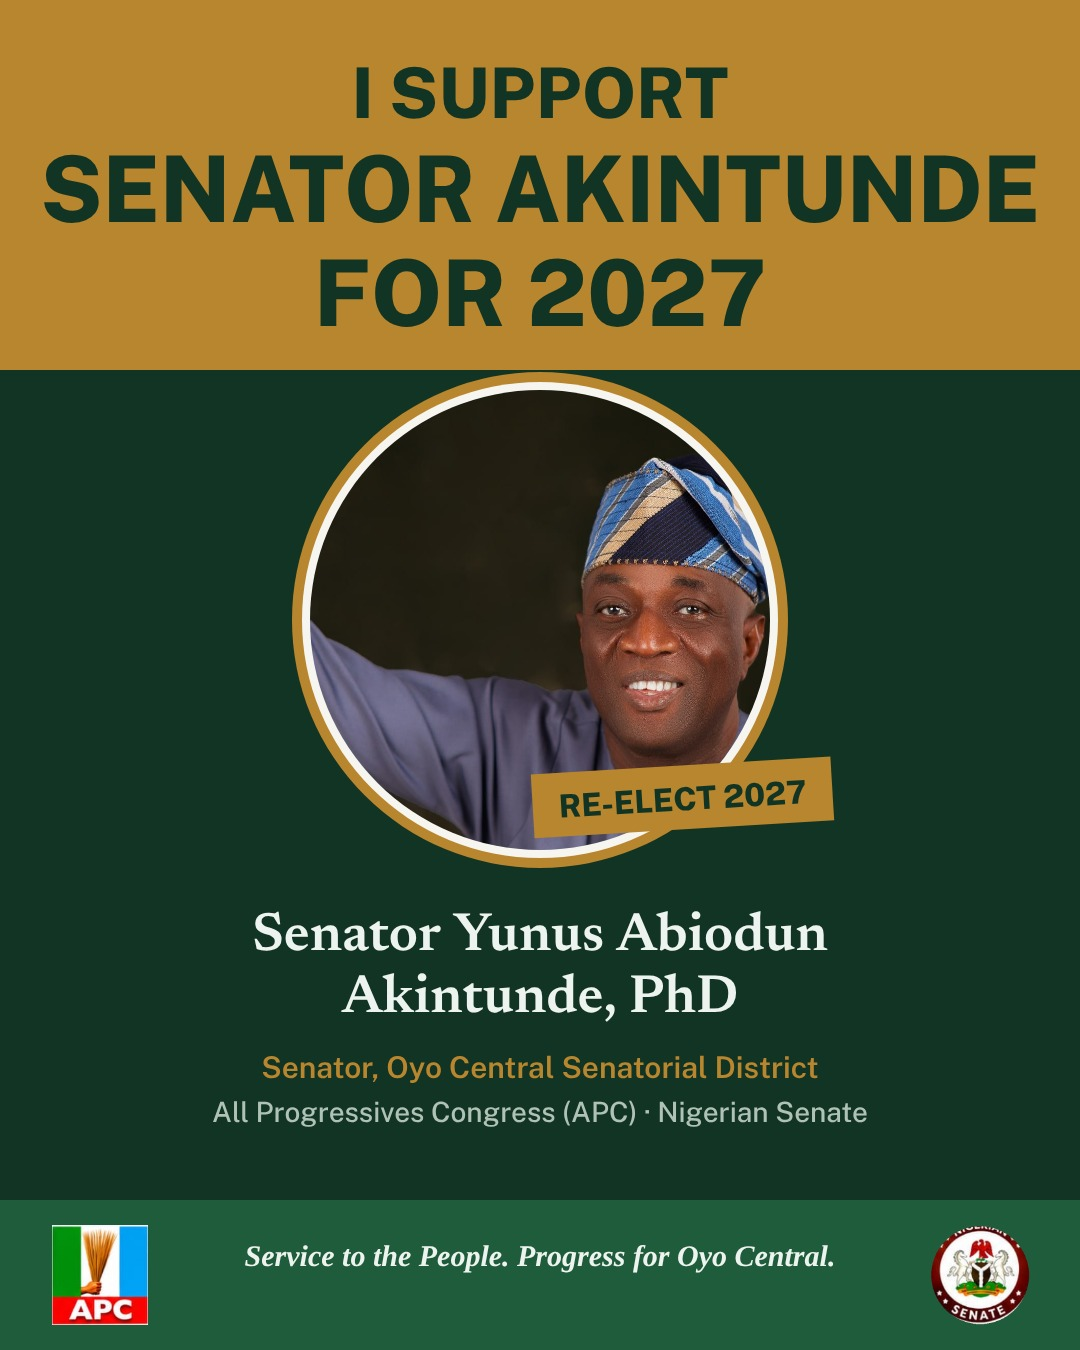
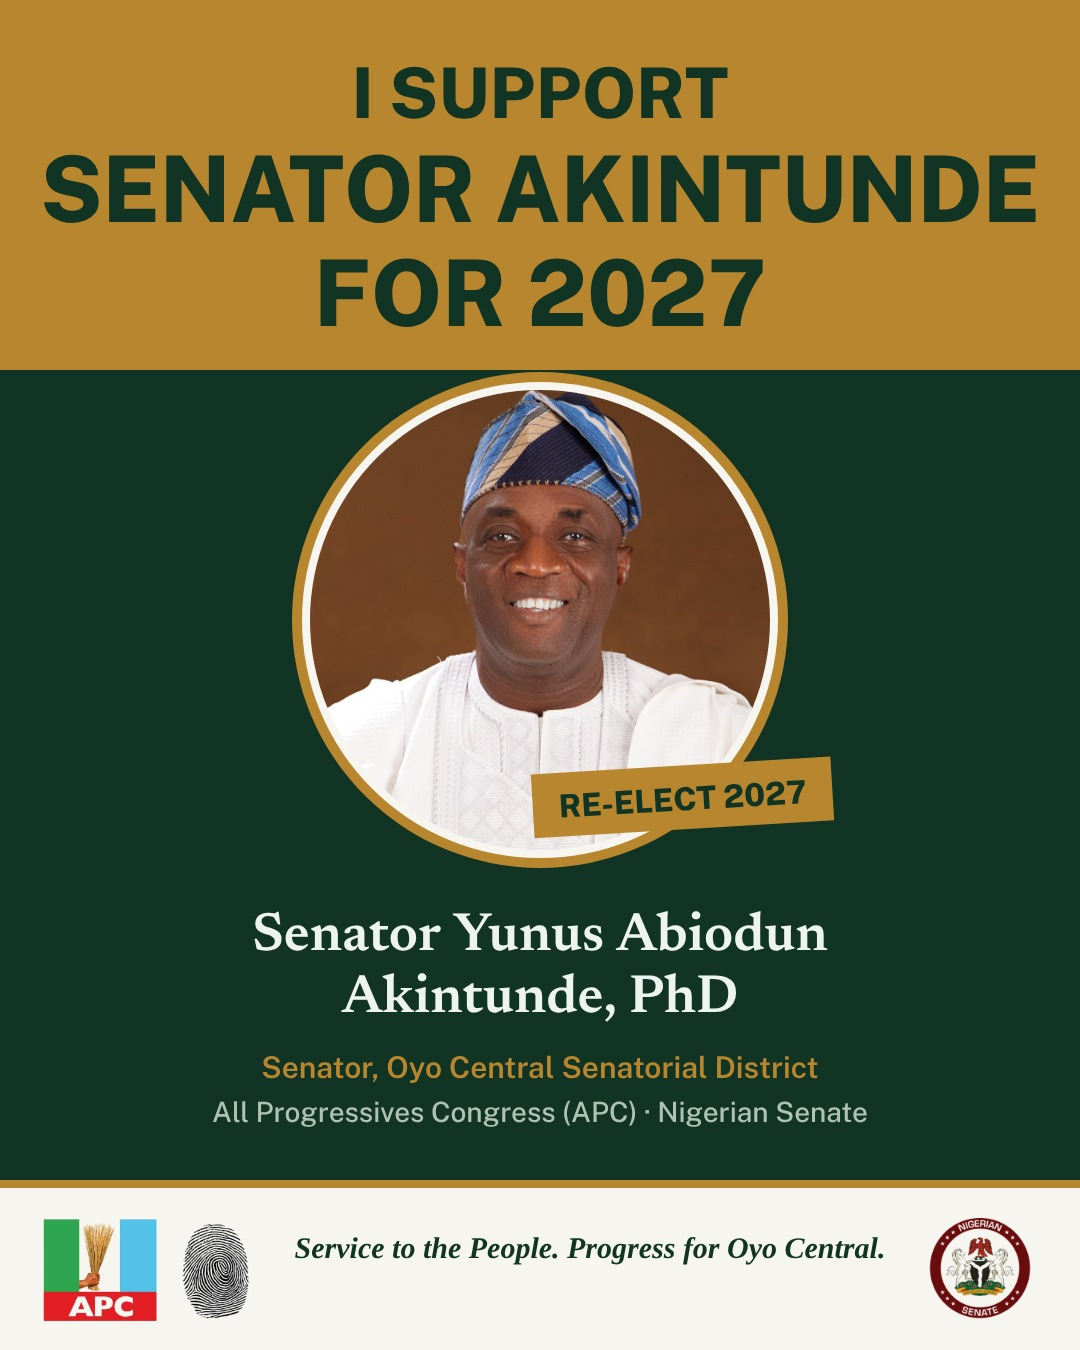
Add files via upload

Changed region(s): [[0.0, 0.8711, 1.0, 1.0], [0.275, 0.28, 0.7333, 0.6533]]

diff --git a/src/lib/support-card.ts b/src/lib/support-card.ts
@@ -8,8 +8,8 @@ export const CARD_W = 1080;
 export const CARD_H = 1350;
 
 /** Bundled copies so the card always has its logos, even if a CMS image fails to load. */
-const FALLBACK_APC = "/brand/apc-logo.png";
-const FALLBACK_SEAL = "/brand/senate-seal.png";
+const FALLBACK_APC = "/brand/apc-thumbprint.png";
+const FALLBACK_SEAL = "/brand/senate-logo.png";
 
 const C = {
   deep: "#123424",
@@ -23,8 +23,6 @@ const C = {
 
 export type CardInput = {
   photoUrl: string;
-  /** 0 = keep the left edge, 0.5 = centre, 1 = right edge (where the face is in a wide photo). */
-  photoFocusX?: number;
   apcLogoUrl: string;
   sealUrl: string;
   siteHost: string;
@@ -73,10 +71,11 @@ function drawCircleImage(
   cx: number,
   cy: number,
   r: number,
-  focusX = 0.5,
 ) {
+  // Portrait framing: fill the circle, zoom in a little, centre horizontally and keep
+  // the head in the upper part, so a head-and-shoulders photo reads well at phone size.
   const size = r * 2;
-  const scale = Math.max(size / img.width, size / img.height);
+  const scale = Math.max(size / img.width, size / img.height) * 1.18;
   const w = img.width * scale;
   const h = img.height * scale;
   ctx.save();
@@ -84,7 +83,7 @@ function drawCircleImage(
   ctx.arc(cx, cy, r, 0, Math.PI * 2);
   ctx.closePath();
   ctx.clip();
-  ctx.drawImage(img, cx - r - (w - size) * focusX, cy - r - (h - size) * 0.12, w, h);
+  ctx.drawImage(img, cx - w / 2, cy - r - (h - size) * 0.05, w, h);
   ctx.restore();
 }
 
@@ -93,12 +92,13 @@ function drawContain(
   img: HTMLImageElement,
   x: number,
   y: number,
-  box: number,
+  boxW: number,
+  boxH: number,
 ) {
-  const s = Math.min(box / img.width, box / img.height);
-  const w = img.width * s;
-  const h = img.height * s;
-  ctx.drawImage(img, x + (box - w) / 2, y + (box - h) / 2, w, h);
+  const k = Math.min(boxW / img.width, boxH / img.height);
+  const w = img.width * k;
+  const h = img.height * k;
+  ctx.drawImage(img, x + (boxW - w) / 2, y + (boxH - h) / 2, w, h);
 }
 
 export async function drawSupportCard(canvas: HTMLCanvasElement, input: CardInput) {
@@ -145,7 +145,7 @@ export async function drawSupportCard(canvas: HTMLCanvasElement, input: CardInpu
   ctx.arc(cx, cy, r + 8, 0, Math.PI * 2);
   ctx.fill();
   if (photo) {
-    drawCircleImage(ctx, photo, cx, cy, r, input.photoFocusX);
+    drawCircleImage(ctx, photo, cx, cy, r);
   } else {
     ctx.fillStyle = C.green;
     ctx.beginPath();
@@ -187,25 +187,33 @@ export async function drawSupportCard(canvas: HTMLCanvasElement, input: CardInpu
   ctx.font = '500 28px "Public Sans", Arial, sans-serif';
   ctx.fillText("All Progressives Congress (APC) · Nigerian Senate", cx, y, CARD_W - 120);
 
-  // Footer strip
-  const footY = CARD_H - 150;
-  ctx.fillStyle = C.green;
-  ctx.fillRect(0, footY, CARD_W, 150);
-  const logo = 100;
-  if (apc) drawContain(ctx, apc, 50, footY + 25, logo);
-  if (seal) drawContain(ctx, seal, CARD_W - 50 - logo, footY + 25, logo);
-  ctx.fillStyle = C.onDark;
+  // Footer strip: light, so the black thumbprint and the Senate logo both read clearly.
+  const footH = 170;
+  const footY = CARD_H - footH;
+  ctx.fillStyle = C.cream;
+  ctx.fillRect(0, footY, CARD_W, footH);
+  ctx.fillStyle = C.gold;
+  ctx.fillRect(0, footY, CARD_W, 8);
+  const apcW = 220;
+  const logoH = 110;
+  const sealW = 120;
+  const logoY = footY + 8 + (footH - 8 - logoH) / 2;
+  if (apc) drawContain(ctx, apc, 40, logoY, apcW, logoH);
+  if (seal) drawContain(ctx, seal, CARD_W - 40 - sealW, logoY, sealW, logoH);
+  const textMid = 40 + apcW + (CARD_W - 80 - apcW - sealW) / 2;
+  const textMax = CARD_W - 80 - apcW - sealW - 40;
+  ctx.fillStyle = C.deep;
   ctx.font = 'italic 600 30px "Newsreader", Georgia, serif';
-  ctx.fillText(
-    "Service to the People. Progress for Oyo Central.",
-    cx,
-    footY + 66,
-    CARD_W - 2 * (logo + 80),
-  );
+  const tagLines = wrap(ctx, "Service to the People. Progress for Oyo Central.", textMax);
+  let ty = footY + (input.siteHost ? 66 : 78) - (tagLines.length - 1) * 16;
+  for (const line of tagLines) {
+    ctx.fillText(line, textMid, ty, textMax);
+    ty += 36;
+  }
   if (input.siteHost) {
-    ctx.fillStyle = C.gold;
-    ctx.font = '700 26px "Public Sans", Arial, sans-serif';
-    ctx.fillText(input.siteHost, cx, footY + 110);
+    ctx.fillStyle = C.goldDeep;
+    ctx.font = '700 24px "Public Sans", Arial, sans-serif';
+    ctx.fillText(input.siteHost, textMid, ty + 6, textMax);
   }
 }
 

diff --git a/src/routes/support.tsx b/src/routes/support.tsx
@@ -3,13 +3,11 @@ import { useEffect, useRef, useState } from "react";
 import { Check, Copy, Download, Facebook, Loader2, MessageCircle, Share2 } from "lucide-react";
 import { getOrigin } from "@/lib/origin.functions";
 import { useSiteImages } from "@/lib/use-settings";
-import { DEFAULT_SUPPORT_PHOTO_FOCUS_X, IMAGE_SLOTS } from "@/lib/cms-defaults";
 import { canvasToBlob, drawSupportCard } from "@/lib/support-card";
 import { btn, PageHeader } from "@/components/site/ui";
 
 /** Pre-rendered copy of the card: shown before the live one is drawn, and used for link previews. */
 const STATIC_CARD = "/support-card.jpg";
-const DEFAULT_SUPPORT_PHOTO = IMAGE_SLOTS.find((s) => s.key === "supportPhoto")!.default;
 const TITLE = "I Support Senator Akintunde for 2027";
 const SHARE_TEXT =
   "I SUPPORT Senator Yunus Abiodun Akintunde, PhD for 2027! Four years of delivery for Oyo Central. Show your support too:";
@@ -63,10 +61,8 @@ function Support() {
       if (!canvas) return;
       await drawSupportCard(canvas, {
         photoUrl: images.supportPhoto,
-        photoFocusX:
-          images.supportPhoto === DEFAULT_SUPPORT_PHOTO ? DEFAULT_SUPPORT_PHOTO_FOCUS_X : 0.5,
-        apcLogoUrl: images.apcLogo,
-        sealUrl: images.senateSeal,
+        apcLogoUrl: images.supportApc,
+        sealUrl: images.supportSeal,
         // Print the real domain on the card, never a local or preview address.
         siteHost: /^(localhost|127\.|\[::1\])/.test(window.location.host)
           ? ""
@@ -85,7 +81,7 @@ function Support() {
     return () => {
       alive = false;
     };
-  }, [images.supportPhoto, images.apcLogo, images.senateSeal]);
+  }, [images.supportPhoto, images.supportApc, images.supportSeal]);
 
   function download() {
     const file = fileRef.current;

diff --git a/src/lib/cms-defaults.ts b/src/lib/cms-defaults.ts
@@ -67,7 +67,19 @@ export const IMAGE_SLOTS = [
     key: "supportPhoto",
     label: "Support card photo",
     where: "The shareable “I SUPPORT” card on the Support page (shown in a circle)",
-    default: "/hero/hero-fist.jpg",
+    default: "/brand/support-portrait.jpg",
+  },
+  {
+    key: "supportApc",
+    label: "Support card: APC logo & thumbprint",
+    where: "Bottom left of the shareable “I SUPPORT” card",
+    default: "/brand/apc-thumbprint.png",
+  },
+  {
+    key: "supportSeal",
+    label: "Support card: Senate logo",
+    where: "Bottom right of the shareable “I SUPPORT” card",
+    default: "/brand/senate-logo.png",
   },
   {
     key: "filmCover",
@@ -96,9 +108,6 @@ export const IMAGE_SLOTS = [
     default: thumbprint.url,
   },
 ] as const;
-
-/** The default support photo is wide with the face on the right; keep it in the circle. */
-export const DEFAULT_SUPPORT_PHOTO_FOCUS_X = 0.78;
 
 export type ImageKey = (typeof IMAGE_SLOTS)[number]["key"];
 export type ImageSettings = Record<ImageKey, string>;

diff --git a/CMS_SETUP.md b/CMS_SETUP.md
@@ -82,8 +82,9 @@ tool's webhook URL. The form only tells a visitor "success" if at least one of t
   automatically. Add Oyo zone LGAs there.
 - **/support:** the shareable "I SUPPORT SENATOR AKINTUNDE FOR 2027" card. On phones,
   "Share image" sends the picture itself to WhatsApp/Status/Instagram/Facebook. On computers it
-  downloads, and link shares show the card as their preview. The photo is replaceable under
-  Site content → Images → "Support card photo".
+  downloads, and link shares show the card as their preview. The photo and both logos are
+  replaceable under Site content → Images ("Support card photo", "Support card: APC logo &
+  thumbprint", "Support card: Senate logo").
 - `public/support-card.jpg` is the pre-made preview image used by WhatsApp/Facebook link
   previews. If the support photo is changed, ask a developer to regenerate it.
 - Database: apply `supabase/migrations/20261118090000_cms_achievements.sql`
